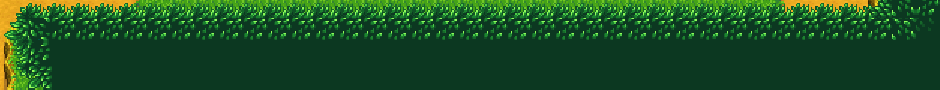
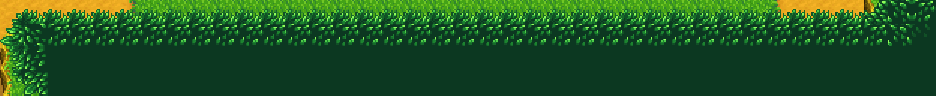
1.2.1碰撞箱添加完毕

Changed region(s): [[0.0, 0.0, 1.0, 1.0]]

diff --git a/StardewValley/Classes/MainMap.cpp b/StardewValley/Classes/MainMap.cpp
@@ -40,34 +40,34 @@ bool MainMap::init()
 
     // 载入地图互动点和碰撞箱
     // 上边界
-    upBoundary = Sprite::create("maps/upBoundary.png");// 1920 * 100的
+    upBoundary = Sprite::create("maps/upBoundary.png");// 1920 * 96的
     upBoundary->setAnchorPoint(Vec2(0.5, 0.5));
-    upBoundary->setPosition(visibleSize / 2 + Size(0, 780 - 50));
+    upBoundary->setPosition(visibleSize / 2 + Size(0, 780 - 48));
     auto upBoundaryBox = PhysicsBody::createBox(upBoundary->getContentSize(), PhysicsMaterial(1.0f, 0.0f, 0.0f));
     upBoundaryBox->setDynamic(false);
     upBoundary->setPhysicsBody(upBoundaryBox);
     this->addChild(upBoundary, 0);
 
     // 右边界
-    rightBoundary = Sprite::create("maps/rightBoundary.png");// 80 * 1560的
+    rightBoundary = Sprite::create("maps/rightBoundary.png");// 72 * 1560的
     rightBoundary->setAnchorPoint(Vec2(0.5, 0.5));
-    rightBoundary->setPosition(visibleSize / 2 + Size(960 - 40, 0));
+    rightBoundary->setPosition(visibleSize / 2 + Size(960 - 36, 0));
     auto rightBoundaryBox = PhysicsBody::createBox(rightBoundary->getContentSize(), PhysicsMaterial(1.0f, 0.0f, 0.0f));
     rightBoundaryBox->setDynamic(false);
     rightBoundary->setPhysicsBody(rightBoundaryBox);
     this->addChild(rightBoundary, 0);
 
     // 左边界
-    leftBoundary = Sprite::create("maps/leftBoundary.png");// 80 * 1560的
+    leftBoundary = Sprite::create("maps/leftBoundary.png");// 72 * 1560的
     leftBoundary->setAnchorPoint(Vec2(0.5, 0.5));
-    leftBoundary->setPosition(visibleSize / 2 - Size(960 - 40, 0));
+    leftBoundary->setPosition(visibleSize / 2 - Size(960 - 36, 0));
     auto leftBoundaryBox = PhysicsBody::createBox(leftBoundary->getContentSize(), PhysicsMaterial(1.0f, 0.0f, 0.0f));
     leftBoundaryBox->setDynamic(false);
     leftBoundary->setPhysicsBody(leftBoundaryBox);
     this->addChild(leftBoundary, 0);
 
     // 下边界左半部分
-    downBoundary_left = Sprite::create("maps/downBoundary_left.png");// 940 * 90的
+    downBoundary_left = Sprite::create("maps/downBoundary_left.png");// 936 * 96的
     downBoundary_left->setAnchorPoint(Vec2(0.0, 0.0));
     downBoundary_left->setPosition(visibleSize / 2 - Size(960, 780));
     auto downBoundary_leftBox = PhysicsBody::createBox(downBoundary_left->getContentSize(), PhysicsMaterial(1.0f, 0.0f, 0.0f));
@@ -76,13 +76,104 @@ bool MainMap::init()
     this->addChild(downBoundary_left, 0);
 
     // 下边界右半部分
-    downBoundary_right = Sprite::create("maps/downBoundary_right.png");// 940 * 90的
+    downBoundary_right = Sprite::create("maps/downBoundary_right.png");// 936 * 96的
     downBoundary_right->setAnchorPoint(Vec2(1.0, 0.0));
     downBoundary_right->setPosition(visibleSize / 2 + Size(960, -780));
     auto downBoundary_rightBox = PhysicsBody::createBox(downBoundary_right->getContentSize(), PhysicsMaterial(1.0f, 0.0f, 0.0f));
     downBoundary_rightBox->setDynamic(false);
     downBoundary_right->setPhysicsBody(downBoundary_rightBox);
     this->addChild(downBoundary_right, 0);
+
+    // 水池上半部分
+    upWater = Sprite::create("maps/upWater.png");// 672 * 456的
+    upWater->setAnchorPoint(Vec2(0.0, 0.5));// 设置锚点
+    upWater->setPosition(visibleSize / 2 + Size(-960, -120));
+    auto upWaterBox = PhysicsBody::createBox(upWater->getContentSize(), PhysicsMaterial(1.0f, 0.0f, 0.0f));
+    upWaterBox->setDynamic(false);
+    upWater->setPhysicsBody(upWaterBox);
+    this->addChild(upWater, 0);
+
+    // 水池中间部分
+    middleWater = Sprite::create("maps/middleWater.png");// 648 * 96的
+    middleWater->setAnchorPoint(Vec2(0.0, 0.5));// 设置锚点
+    middleWater->setPosition(visibleSize / 2 + Size(-960, -780 + 408));
+    auto middleWaterBox = PhysicsBody::createBox(middleWater->getContentSize(), PhysicsMaterial(1.0f, 0.0f, 0.0f));
+    middleWaterBox->setDynamic(false);
+    middleWater->setPhysicsBody(middleWaterBox);
+    this->addChild(middleWater, 0);
+
+    // 水池下半部分
+    downWater = Sprite::create("maps/downWater.png");// 672 * 378的
+    downWater->setAnchorPoint(Vec2(0.0, 0.0));// 设置锚点
+    downWater->setPosition(visibleSize / 2 + Size(-960, -780));
+    auto downWaterBox = PhysicsBody::createBox(downWater->getContentSize(), PhysicsMaterial(1.0f, 0.0f, 0.0f));
+    downWaterBox->setDynamic(false);
+    downWater->setPhysicsBody(downWaterBox);
+    this->addChild(downWater, 0);
+
+    // 房屋
+    home = Sprite::create("maps/home.png");// 240 * 336的
+    home->setAnchorPoint(Vec2(1.0, 1.0));// 设置锚点
+    home->setPosition(visibleSize / 2 + Size(960, 780));
+    auto homeBox = PhysicsBody::createBox(home->getContentSize(), PhysicsMaterial(1.0f, 0.0f, 0.0f));
+    homeBox->setDynamic(false);
+    home->setPhysicsBody(homeBox);
+    this->addChild(home, 0);
+
+    // 栅栏
+    fence = Sprite::create("maps/fence.png");// 24 * 720的
+    fence->setAnchorPoint(Vec2(0.0, 1.0));// 设置锚点
+    fence->setPosition(visibleSize / 2 + Size(-960 + 24 * 29, 780));
+    auto fenceBox = PhysicsBody::createBox(fence->getContentSize(), PhysicsMaterial(1.0f, 0.0f, 0.0f));
+    fenceBox->setDynamic(false);
+    fence->setPhysicsBody(fenceBox);
+    this->addChild(fence, 0);
+
+    // 下面的可以互动
+    // 钓鱼部分
+    fishing = Sprite::create("maps/fishing.png");// 96 * 96的
+    fishing->setAnchorPoint(Vec2(0.5, 0.5));// 设置锚点
+    fishing->setPosition(visibleSize / 2 + Size(-960 + 624, -780 + 408));
+    auto fishingBox = PhysicsBody::createBox(fishing->getContentSize(), PhysicsMaterial(1.0f, 0.0f, 0.0f));
+    fishingBox->setDynamic(false);
+    fishing->setPhysicsBody(fishingBox);
+    this->addChild(fishing, 0);
+
+    // 农田左部分
+    CropsLeft = Sprite::create("maps/Crops.png");// 192 * 192的
+    CropsLeft->setAnchorPoint(Vec2(0.0, 1.0));// 设置锚点
+    CropsLeft->setPosition(visibleSize / 2 + Size(-960 + 1224, -780 + 336));
+    auto CropsLeftBox = PhysicsBody::createBox(CropsLeft->getContentSize(), PhysicsMaterial(1.0f, 0.0f, 0.0f));
+    CropsLeftBox->setDynamic(false);
+    CropsLeft->setPhysicsBody(CropsLeftBox);
+    this->addChild(CropsLeft, 0);
+
+    // 农田右部分
+    CropsRight = Sprite::create("maps/Crops.png");// 192 * 192的
+    CropsRight->setAnchorPoint(Vec2(0.0, 1.0));// 设置锚点
+    CropsRight->setPosition(visibleSize / 2 + Size(-960 + 1464, -780 + 336));
+    auto CropsRightBox = PhysicsBody::createBox(CropsRight->getContentSize(), PhysicsMaterial(1.0f, 0.0f, 0.0f));
+    CropsRightBox->setDynamic(false);
+    CropsRight->setPhysicsBody(CropsRightBox);
+    this->addChild(CropsRight, 0);
+
+    // 路
+    road = Sprite::create("maps/road.png");// 96 * 96的
+    road->setAnchorPoint(Vec2(1.0, 0.0));// 设置锚点
+    road->setPosition(visibleSize / 2 + Size(48, -780));
+    auto roadBox = PhysicsBody::createBox(road->getContentSize(), PhysicsMaterial(1.0f, 0.0f, 0.0f));
+    roadBox->setDynamic(false);
+    road->setPhysicsBody(roadBox);
+    this->addChild(road, 0);
+
+    // 牧场
+    ranch = Sprite::create("maps/ranch.png");// 96 * 96的
+    ranch->setAnchorPoint(Vec2(1.0, 0.0));// 设置锚点
+    ranch->setPosition(visibleSize / 2 + Size(-960 + 24 * 30, 60));
+    auto ranchBox = PhysicsBody::createBox(ranch->getContentSize(), PhysicsMaterial(1.0f, 0.0f, 0.0f));
+    ranchBox->setDynamic(false);
+    ranch->setPhysicsBody(ranchBox);
+    this->addChild(ranch, 0);
 
     /*此处为test*/
 #if 1
@@ -239,7 +330,7 @@ bool MainMap::init()
     player.playerSprite->setPosition(visibleSize / 2); // 初始位置在屏幕中央
 
     // 为玩家添加物理体
-    auto playerBody = PhysicsBody::createBox(player.playerSprite->getContentSize() / 2, PhysicsMaterial(0.1f, 0.0f, 0.0f));// 密度 弹性 摩擦力
+    auto playerBody = PhysicsBody::createBox(player.playerSprite->getContentSize() / 4, PhysicsMaterial(0.1f, 0.0f, 0.0f));// 密度 弹性 摩擦力
     playerBody->setDynamic(true); // 设置为动态物理体
     player.playerSprite->setPhysicsBody(playerBody);// 设置物理体
     this->addChild(player.playerSprite, 1);
